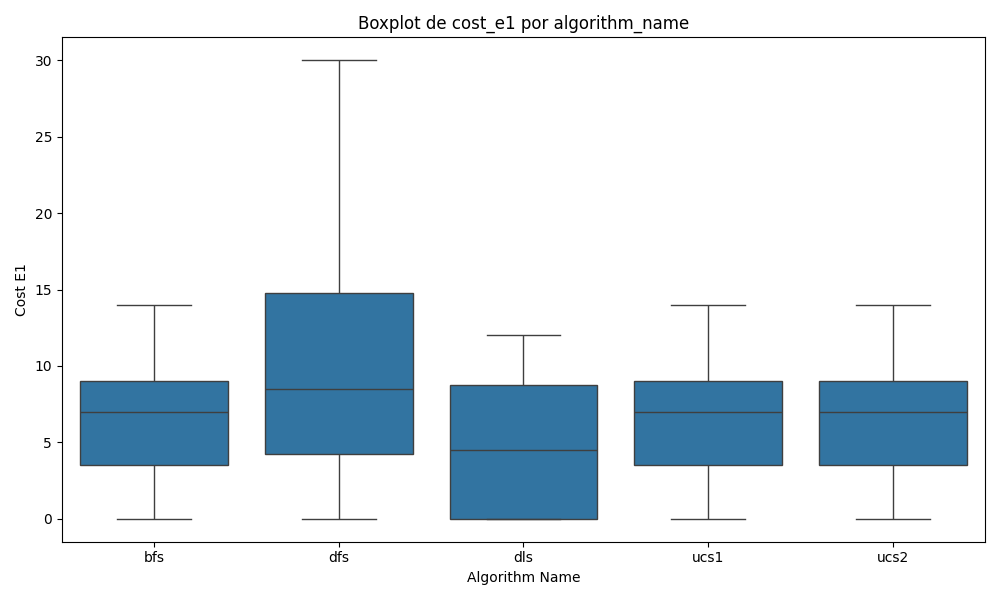
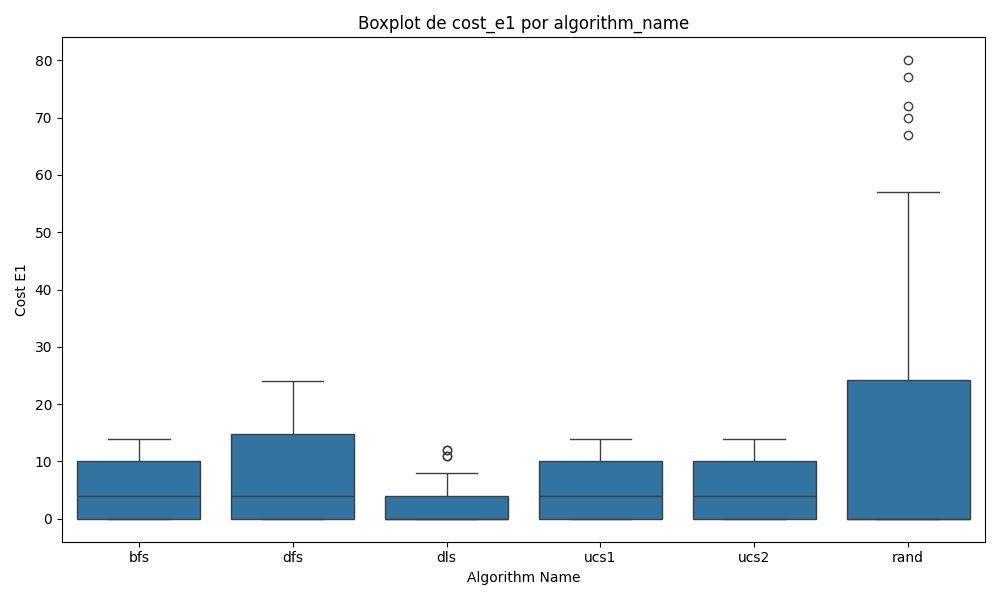
Finished ahora si

diff --git a/tp3-busquedas-no-informadas/code/search.py b/tp3-busquedas-no-informadas/code/search.py
@@ -1,6 +1,7 @@
 from exploration import generate_random_map_custom
 from queue import PriorityQueue
 import time
+import random
 
 def neighbors(position, desc):
     neighbors = []
@@ -143,16 +144,28 @@ def ucs2(desc, start):
                 frontier.put((newCost, n, path + [position]))
     return None, explored, 0
 
-env, desc = generate_random_map_custom(8, 0.3)
-start_state = env.reset()[0]
-time.sleep(10)
-for i in range(len(desc)):
-    for j in range(len(desc[i])):
-        if desc[i][j] == 'S':  
-            start_position = (i, j)
+def rand(desc, start):
+    lifes = 100
+    current_position = start
+    directions = [(-1, 0), (1, 0), (0, -1), (0, 1)]  
+    path = [current_position]
+    explored = set()
+    explored.add(current_position)
+    
+    while lifes > 0:
+        move = random.choice(directions)
+        new_position = (current_position[0] + move[0], current_position[1] + move[1])
+        
+        if 0 <= new_position[0] < len(desc) and 0 <= new_position[1] < len(desc[0]):
+            current_position = new_position
+            path.append(current_position)
+            explored.add(current_position)
+            
+            if desc[current_position[0]][current_position[1]] == 'G':
+                return path, explored
+        
+        lifes -= 1
+    
+    return None, explored
 
 
-path, explored, total_cost = ucs2(desc, start_position)
-print("Camino encontrado:", path)
-print("Nodos explorados:", explored)
-print("Costo total:", total_cost)

diff --git a/tp3-busquedas-no-informadas/code/main.py b/tp3-busquedas-no-informadas/code/main.py
@@ -17,7 +17,7 @@ def generate_envs(it):
 
 def run_experiments(it):
     results = []
-    functions = [bfs, dfs, dls, ucs1, ucs2]
+    functions = [bfs, dfs, dls, ucs1, ucs2, rand]
     envs = generate_envs(it)
 
     for func in functions:
